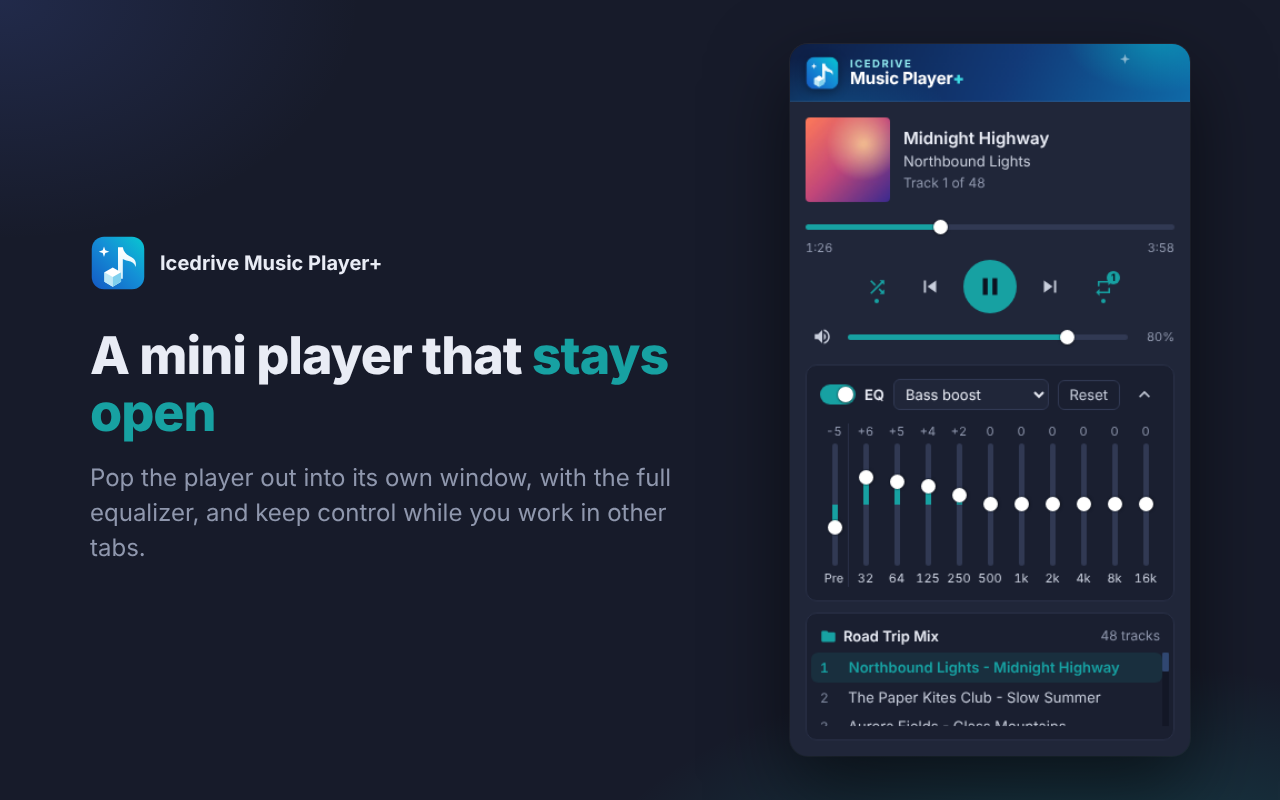
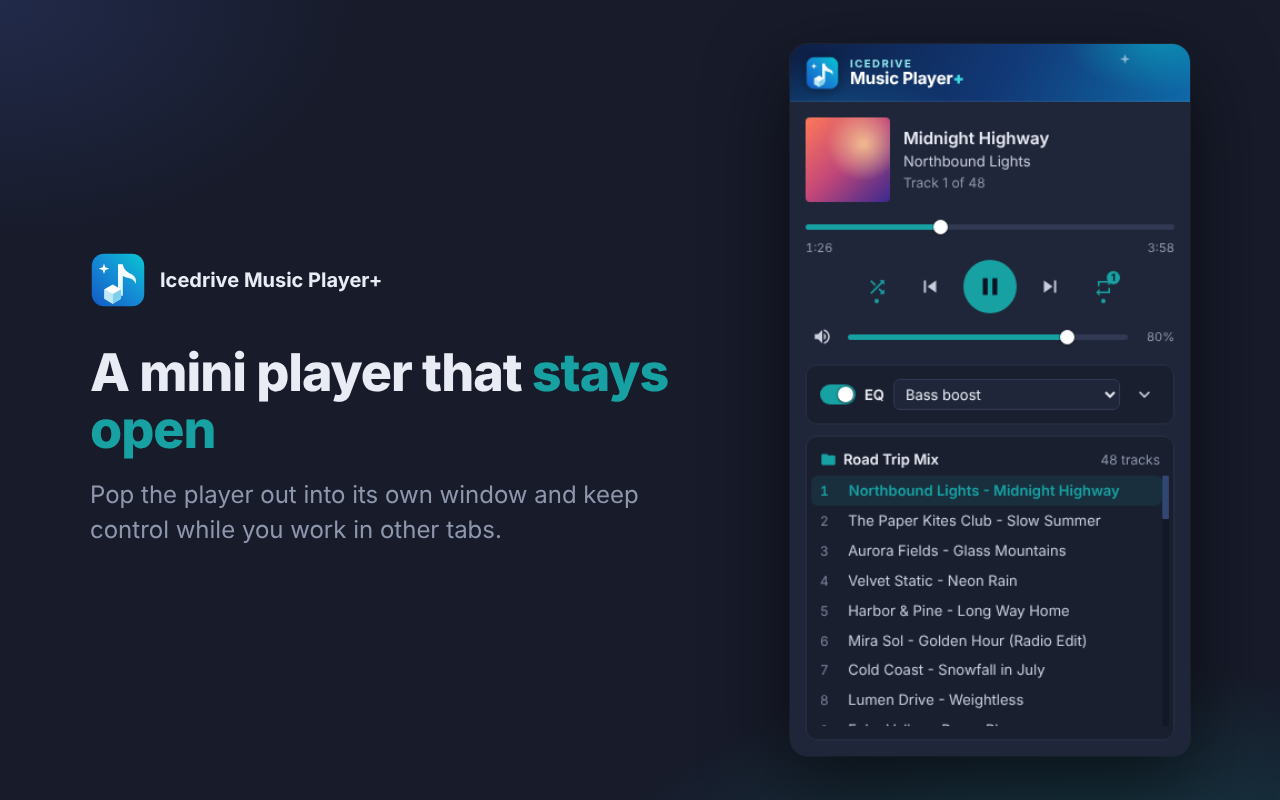
Fifth store screenshot: the equalizer in the popup
Claude-Session: https://claude.ai/code/session_01P4eB1zbGBRmucfayzPhFpr

diff --git a/docs/store/assets.html b/docs/store/assets.html
@@ -42,10 +42,11 @@
 </head>
 <body>
 <script>
-  // ?v=popup | mini | inpage | privacy | tile | marquee. Content is fixed text, built with DOM APIs.
+  // ?v=popup | mini | inpage | eq | privacy | tile | marquee. Content is fixed text, built with DOM APIs.
   const shots = {
     popup: { img: '../images/popup.png', w: 380, title: ['Now playing, ', 'in one click'], text: 'Album art, seek bar, volume, equalizer presets, shuffle, repeat and the whole folder as a queue, right under the toolbar icon.' },
-    mini: { img: '../images/detached-window.png', w: 400, title: ['A mini player that ', 'stays open'], text: 'Pop the player out into its own window, with the full equalizer, and keep control while you work in other tabs.' },
+    mini: { img: '../images/detached-window.png', w: 400, title: ['A mini player that ', 'stays open'], text: 'Pop the player out into its own window and keep control while you work in other tabs.' },
+    eq: { img: '../images/popup-equalizer.png', w: 380, title: ['Your sound, ', 'your way'], text: 'A 10-band equalizer with preamp and 17 presets, right in the popup and the mini player. Bass boost, vocal, podcast, laptop speakers and more.' },
     inpage: { img: '../images/in-page-controls.png', w: 700, title: ['A 10-band equalizer ', 'inside Icedrive'], text: 'Equalizer with 17 presets, track list, shuffle and repeat right under Icedrive’s player, restyled to match.' },
   };
   const v = new URLSearchParams(location.search).get('v') || 'popup';
@@ -56,7 +57,7 @@
     const copy = el('div', 'copy');
     const h = el('h1'); h.append('Icedrive Music ', el('span', '', 'Player+'));
     const chips = el('div', 'chips');
-    for (const c of ['Queue', 'Shuffle', 'Repeat', 'Media keys', 'Mini player']) chips.append(el('span', 'chip', c));
+    for (const c of ['Equalizer', 'Volume', 'Queue', 'Shuffle', 'Mini player']) chips.append(el('span', 'chip', c));
     copy.append(icon(), h, el('p', '', 'Turn Icedrive\u2019s audio preview into a proper music player.'), chips);
     const frame = el('div', 'frame'); const img = el('img'); img.src = '../images/popup.png'; img.style.width = '300px'; frame.append(img);
     m.append(copy, frame);
@@ -69,7 +70,7 @@
     copy.append(brand, h, el('p', '', 'Safe for a work laptop: it only runs on icedrive.net and nothing ever leaves your browser.'));
     const cards = el('div', 'cards');
     for (const [t, d] of [
-      ['1 permission', 'Only storage, to remember shuffle and repeat.'],
+      ['1 permission', 'Only storage, to remember shuffle, repeat and the equalizer.'],
       ['1 website', 'Runs on icedrive.net and nowhere else.'],
       ['0 data sent', 'No analytics, no tracking, no network requests.'],
       ['0 remote code', 'Everything ships in the package, strict CSP.'],
@@ -79,7 +80,7 @@
   } else if (v === 'tile') {
     const t = el('div', 'tile');
     const h = el('h1'); h.append('Icedrive Music ', el('span', '', 'Player+'));
-    t.append(icon(), h, el('p', '', 'Shuffle, repeat, queue, media keys and a mini player for Icedrive.'));
+    t.append(icon(), h, el('p', '', 'Equalizer, volume, shuffle, repeat, queue and a mini player for Icedrive.'));
     document.body.append(t);
   } else {
     const s = shots[v];

diff --git a/docs/chrome-web-store.md b/docs/chrome-web-store.md
@@ -103,7 +103,7 @@ This is an unofficial, community-made extension. It isn't affiliated with or end
 **Images** (in `docs/store/`, re-render with `node docs/store/render.mjs`):
 
 - Store icon: `public/icon/128.png`
-- Screenshots (1280×800): `screenshot-1-popup.png`, `screenshot-2-mini-player.png`, `screenshot-3-in-icedrive.png`, `screenshot-4-privacy.png`
+- Screenshots (1280×800): `screenshot-1-popup.png`, `screenshot-2-mini-player.png`, `screenshot-3-in-icedrive.png`, `screenshot-4-privacy.png`, `screenshot-5-equalizer.png`
 - Small promo tile (440×280): `promo-small-440x280.png`
 - Marquee promo tile (1400×560): `promo-marquee-1400x560.png`
 

diff --git a/README.md b/README.md
@@ -44,6 +44,12 @@
   </tr>
   <tr>
     <td align="center" colspan="2">
+      <img src="docs/images/popup-equalizer.png" alt="Popup with the 10-band equalizer unfolded" width="300"><br>
+      <sub><b>Equalizer</b>: all 10 bands, preamp and presets, also in the popup and mini player</sub>
+    </td>
+  </tr>
+  <tr>
+    <td align="center" colspan="2">
       <img src="docs/images/in-page-controls.png" alt="Shuffle, previous, next and repeat buttons and a 10-band equalizer added under Icedrive's player" width="640"><br>
       <sub><b>Inside Icedrive</b>: controls, equalizer and track list under the built-in player</sub>
     </td>
